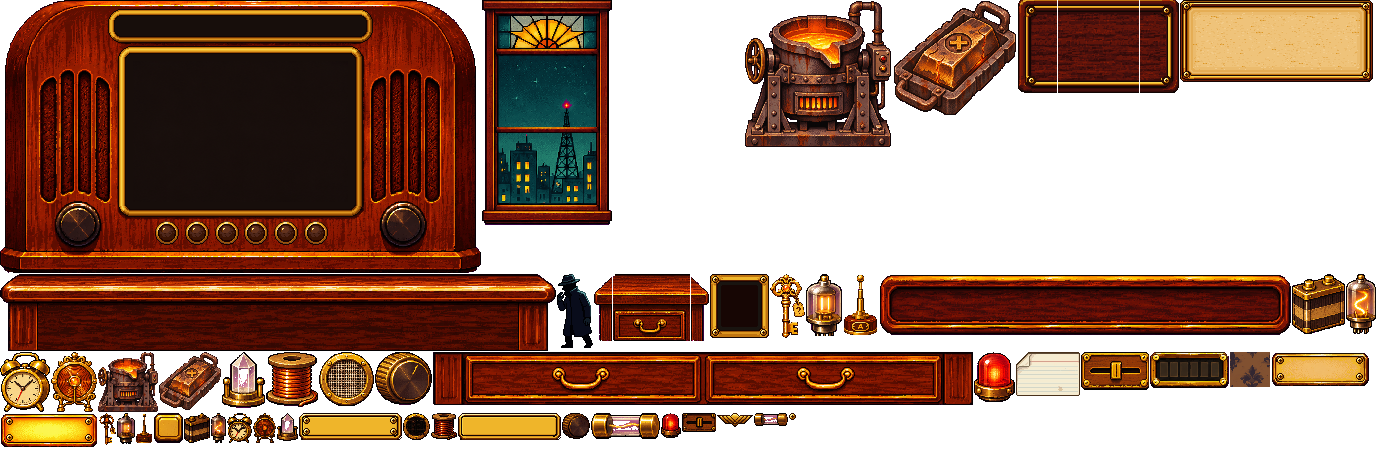
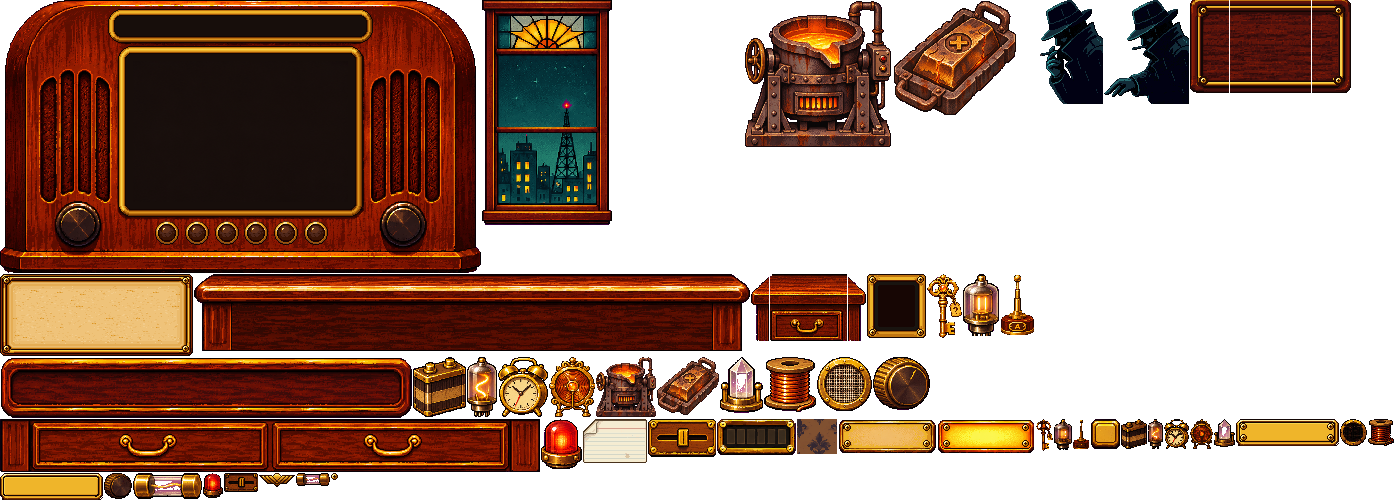
Request caller: close-up smoking silhouette leaning in from the side, reaching pose with the cigarette in his mouth, glowing tip and smoke
Claude-Session: https://claude.ai/code/session_01GgKVUEWXsHRvrCRcmJ6uSs

diff --git a/index.html b/index.html
@@ -1067,16 +1067,30 @@ function drawScoreDrums(top) {
    outside on the fire escape, slides an index card under the sash and slips away. The card stays on the sill: REQUEST stamped in
    red, the request pencilled on its lines. The caller is drawn behind the rain (drawCaller, from drawRain); the card in the room.
    CALLER times in frames from when the night's goal plaque goes. */
-const CALLER = { inEnd: 50, crouch: 70, card0: 80, card1: 108, out0: 100, out1: 150, x0: 116, x1: 60, y: 131 };
+const CALLER = { inEnd: 80, reach0: 120, reach1: 168, card0: 128, card1: 156, out0: 195, out1: 255, x0: 116, x1: 50, y: 112,
+  tip: [22, 54], tipR: [28, 48], smoke: [], box: null };   // tip: the cigarette's lit end in his hand; tipR: in his mouth while he reaches (sprite pixels)
 const reqT = () => { if (REQ !== 4 || !S.req || S.phase !== "play" || HOW.on) return -1; if (S.reqAt == null) { if (nightHold || nightCard > 16) return -1; S.reqAt = frame; } return frame - S.reqAt; };
-function drawCaller(panes) { const t = reqT(), C2 = CALLER; C2.box = null; if (t < 0 || t > C2.out1) return; const e = (u) => u < .5 ? 2 * u * u : 1 - (-2 * u + 2) ** 2 / 2;
-  const x = t < C2.inEnd ? C2.x0 + (C2.x1 - C2.x0) * e(t / C2.inEnd) : t < C2.out0 ? C2.x1 : C2.x1 + (C2.x0 + 4 - C2.x1) * e((t - C2.out0) / (C2.out1 - C2.out0));
-  const dy = t > C2.crouch - 10 && t < C2.out0 + 10 ? Math.round(3 * Math.sin(Math.min(1, (t - C2.crouch + 10) / 20) * Math.PI / 2) * (t > C2.out0 ? 1 - (t - C2.out0) / 10 : 1)) : 0;
-  const bob = t < C2.inEnd || t > C2.out0 ? Math.round(Math.abs(Math.sin(t / 5))) : 0;
-  ctx.save(); ctx.beginPath(); panes.forEach(([px, py, pw, ph]) => ctx.rect(px, py, pw, ph)); ctx.clip();
-  const r = R("caller"); C2.box = [Math.round(x) - 2, C2.y + dy + bob - 2, Math.round(x) + r[2] + 2, C2.y + dy + bob + r[3]];   // (the city lights behind him don't glow through)
-  ctx.drawImage(atlasImg, r[0], r[1], r[2], r[3], FX(L.winX + Math.round(x)), FX(L.winY + C2.y + dy + bob), FX(r[2]), FX(r[3])); ctx.restore(); }
-function drawReqSlip() { const t = reqT(); if (t < CALLER.card0) return; const C2 = CALLER, [, , cw, ch] = R("reqcard"), met = reqMet(S.path), wx = L.winX + Math.round((R("window")[2] - cw) / 2), rest = Math.min(L.winY + 206, Math.floor(scoreDrumBox().y / FINE) - ch - 3);   // (above the RUN counter on small screens)
+// close to the glass, he leans in from the side: smoking, then he reaches down to slide the card under the sash with the cigarette
+// in his mouth (it burns bright while he holds it there), then he leans back out of sight
+function drawCaller(panes) { const t = reqT(), C2 = CALLER; C2.box = null; if (t < 0) return; const e = (u) => u < .5 ? 2 * u * u : 1 - (-2 * u + 2) ** 2 / 2;
+  ctx.save(); ctx.globalAlpha = 1; ctx.globalCompositeOperation = "source-over"; if (RS >= 1) ctx.imageSmoothingEnabled = false;
+  ctx.beginPath(); panes.forEach(([px, py, pw, ph]) => ctx.rect(px, py, pw, ph)); ctx.clip();
+  if (t <= C2.out1) {
+    const x = Math.round(t < C2.inEnd ? C2.x0 + (C2.x1 - C2.x0) * e(t / C2.inEnd) : t < C2.out0 ? C2.x1 : C2.x1 + (C2.x0 - C2.x1) * e((t - C2.out0) / (C2.out1 - C2.out0)));
+    const reach = t >= C2.reach0 && t < C2.reach1, y = C2.y + (t > C2.inEnd && t < C2.out0 ? Math.round(Math.sin((t - C2.inEnd) / 30)) : 0), r = R(reach ? "caller_reach" : "caller");
+    C2.box = [x - 2, y - 2, x + r[2] + 2, y + r[3]];   // (the city lights behind him don't glow through)
+    ctx.drawImage(atlasImg, r[0], r[1], r[2], r[3], FX(L.winX + x), FX(L.winY + y), FX(r[2]), FX(r[3]));
+    // the cigarette's tip glows: a slow pulse, a hard draw now and then, and burning bright the whole time it's in his mouth
+    const [tx, ty] = reach ? C2.tipR : C2.tip, X = FX(L.winX + x + tx), Y = FX(L.winY + y + ty);
+    const drag = reach ? .75 + .25 * Math.sin((t - C2.reach0) / 5) : Math.max(0, Math.sin((t - 40) / 22)) ** 8, glow = .55 + .45 * drag + .08 * Math.sin(frame / 3);
+    ctx.fillStyle = `rgba(255,${Math.round(110 + 110 * drag)},${Math.round(40 + 60 * drag)},${Math.min(1, glow)})`; ctx.fillRect(X, Y, FINE, FINE);
+    ctx.save(); ctx.globalCompositeOperation = "lighter"; bloom(X + FINE / 2, Y + FINE / 2, 7 + 10 * drag, "255,120,40", .35 + .45 * drag); ctx.restore();
+    if (frame % 6 === 0) C2.smoke.push({ x: L.winX + x + tx + .5, y: L.winY + y + ty, t: 0, s: Math.random() * 6 }); }
+  // smoke: soft gray wisps drifting up, swaying, fading (they outlive him a little)
+  for (const p of C2.smoke) { p.t++; const u = p.t / 120; if (u >= 1) continue; const sx = p.x - u * 6 + Math.sin(p.t / 14 + p.s) * 2.5, sy = p.y - u * 34;
+    ctx.fillStyle = `rgba(200,212,214,${.2 * (1 - u) * Math.min(1, p.t / 8)})`; const rr2 = FINE * (.6 + u * 1.8); ctx.beginPath(); ctx.arc(FX(sx), FX(sy), rr2, 0, 6.283); ctx.fill(); }
+  C2.smoke = C2.smoke.filter(p => p.t < 120); ctx.restore(); }
+function drawReqSlip() { const t = reqT(); if (t < CALLER.card0) return; const C2 = CALLER, [, , cw, ch] = R("reqcard"), met = reqMet(S.path), wx = L.winX + 34, rest = Math.min(L.winY + 206, Math.floor(scoreDrumBox().y / FINE) - ch - 3);   // (above the RUN counter on small screens)
   if (t === C2.card0) Sound.paper();
   const u = Math.min(1, (t - C2.card0) / (C2.card1 - C2.card0)), y = Math.round(rest - ch + ch * (1 - (1 - u) ** 3)), clipY = FX(rest);
   ctx.save(); ctx.beginPath(); ctx.rect(0, clipY, CVW, CVH); ctx.clip();

diff --git a/art/pixel/build.py b/art/pixel/build.py
@@ -363,8 +363,7 @@ def main():
     if os.path.exists(SRC + "clasp_wings.png"): imgs["bar_clasp"] = Image.open(SRC + "clasp_wings.png").convert("RGBA")
     # listener requests (Chris 2026-11-15): PixelLab's cream index card (src/reqcard_pixellab.png). Its painted stamp box is wiped
     # (each reddish pixel there that differs from its row takes its row's paper or ruling colour from x=30) so the game stamps REQUEST itself, and the card
-    # gets a dark brown edge. The caller: PixelLab's silhouette in a fedora and trench coat (src/caller_pixellab.png), turned to face
-    # left (he comes in from the right side of the window), cropped to the figure.
+    # gets a dark brown edge.
     if os.path.exists(SRC + "reqcard_pixellab.png"):
         rc = np.asarray(Image.open(SRC + "reqcard_pixellab.png").convert("RGBA")).copy()
         for y_ in range(2, 21):
@@ -374,8 +373,15 @@ def main():
         m_ = rc[..., 3] > 0; ring = np.zeros_like(m_)
         for dy_, dx_ in ((-1, 0), (1, 0), (0, -1), (0, 1)): ring |= np.roll(np.roll(m_, dy_, 0), dx_, 1)
         rc[ring & ~m_] = (73, 50, 28, 255); imgs["reqcard"] = Image.fromarray(rc)
+    # the caller (Chris 2026-11-15, close-up 3 of PixelLab's second batch): src/caller_pixellab.png smoking, facing left, and
+    # src/caller_reach_pixellab.png (PixelLab's edit of the same picture: cigarette in his mouth, his hand reaching down), so the
+    # two line up. Both are cut to the same box; the thin white line PixelLab left along the edges is dropped.
     if os.path.exists(SRC + "caller_pixellab.png"):
-        cl = Image.open(SRC + "caller_pixellab.png").convert("RGBA"); imgs["caller"] = cl.crop(cl.getbbox()).transpose(Image.FLIP_LEFT_RIGHT)
+        CB = (3, 16, 88, 120)
+        for nm_, fn_ in (("caller", "caller_pixellab.png"), ("caller_reach", "caller_reach_pixellab.png")):
+            if os.path.exists(SRC + fn_):
+                ca_ = np.asarray(Image.open(SRC + fn_).convert("RGBA")).copy(); ca_[(ca_[..., 0] > 200) & (ca_[..., 1] > 200) & (ca_[..., 2] > 200)] = 0
+                imgs[nm_] = Image.fromarray(ca_).crop(CB)
     # the bar's top-middle clasp on the Pixel Bench (Chris 2026-11-14): what he paints (src/bench/bar_clasp.png) is used exactly as sent
     if os.path.exists(SRC + "bench/bar_clasp.png"): imgs["bar_clasp"] = Image.open(SRC + "bench/bar_clasp.png").convert("RGBA")
     elif not os.path.exists(SRC + "clasp_wings.png"):

diff --git a/.claude/skills/lexicon-signal-dev/SKILL.md b/.claude/skills/lexicon-signal-dev/SKILL.md
@@ -173,8 +173,9 @@ the same batch.
   #test-togo-3-idle-redpop-N puts the red key on the second row's G). Videos for a Workshop round: a -step hash + LEXSTEP, ffmpeg.
 - Listener requests (in progress, Workshop req-r1): a hard side goal each night (makeReq, reqMet, S.req; REQ 0 = off until decided;
   #req-N picks where it shows; #test-togo-3-met-req-N traces LINK for A WORD WITH K). The intro plaque lists it. Payout undecided.
-  Chris picked the window (req-r1: 4): a PixelLab silhouette caller (src/caller_pixellab.png, sprite "caller", turned to face left)
-  slides in outside the window, a PixelLab index card (src/reqcard_pixellab.png, sprite "reqcard", its stamp box wiped in build.py)
+  Chris picked the window (req-r1: 4): a close-up PixelLab silhouette caller in a fedora, smoking (src/caller_pixellab.png, sprite
+  "caller"; his reaching pose src/caller_reach_pixellab.png, "caller_reach", an edit of the same picture so they line up, cigarette
+  in his mouth) leans in from the right side of the window, its tip glowing (bright while he reaches) with smoke wisps, a PixelLab index card (src/reqcard_pixellab.png, sprite "reqcard", its stamp box wiped in build.py)
   slides out under the sash and stays on the sill; the game stamps REQUEST and pencils req.card on it. CALLER times; drawCaller (in
   drawRain, behind the rain, city lights under him skipped), drawReqSlip, Sound.paper. Workshop req-r2 has the videos.
 - Shine (Chris 2026-11-15): prominent brass plates outside play get the title buttons' hard-striped light sweep every SHINE_PER
